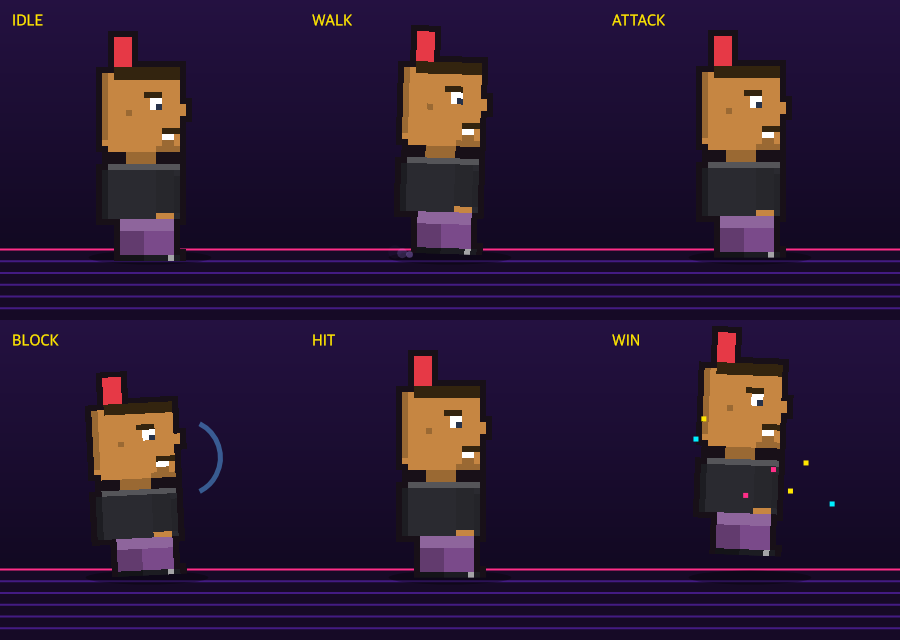
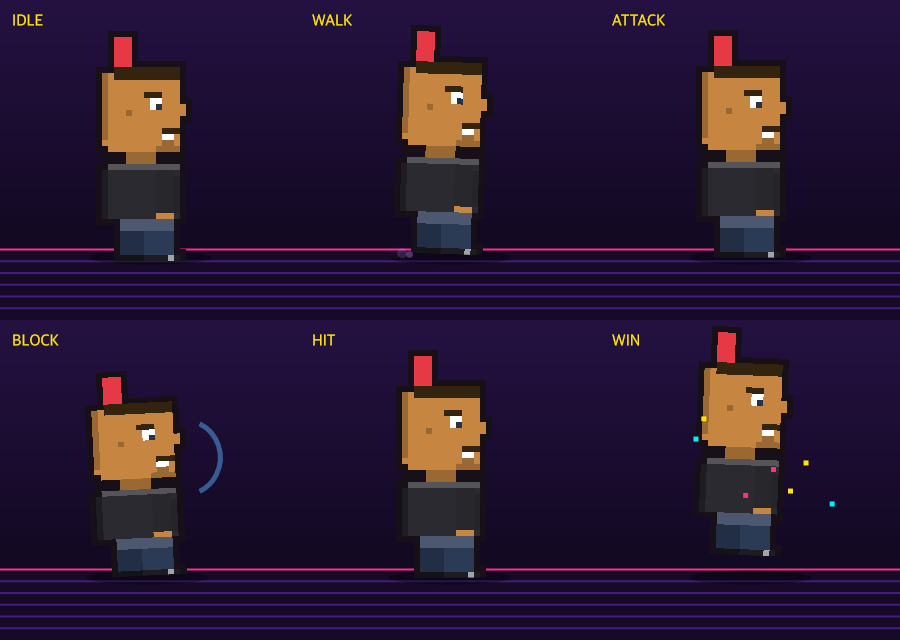
feat(generator): configurable trouser colour + barefoot toes
Add trousersColor (any hex), decoupled from trouser style, with a TROUSERS swatch row in the editor. Fix barefoot to show skin-coloured toes in front and profile views.

diff --git a/packages/generator/src/parts.ts b/packages/generator/src/parts.ts
@@ -1,7 +1,7 @@
 import type { Ctx2D } from "./types.js";
 import type { PartId } from "./palettes.js";
 import { shade } from "./color.js";
-import { HAIR, PANTS } from "./palettes.js";
+import { HAIR } from "./palettes.js";
 
 /** Part ids the profile view needs, taken straight from the config. */
 export interface SideParts {
@@ -47,8 +47,8 @@ export function clr(g: Ctx2D, x: number, y: number): void {
    Every part switches on its string id, so options can be added or reordered
    without renumbering anything. */
 
-export function drawTrousers(g: Ctx2D, id: PartId<"trousers">, skin: string): void {
-  const PC = PANTS[id];
+export function drawTrousers(g: Ctx2D, id: PartId<"trousers">, color: string, skin: string): void {
+  const PC = color;
   const d = shade(PC, -0.28);
   const hi = shade(PC, 0.18);
   // hips
@@ -522,7 +522,15 @@ export function drawGlasses(g: Ctx2D, id: GlassesId): void {
 /* ---------- shoes (drawn over the bottom of the legs) ---------- */
 
 export function drawShoes(g: Ctx2D, id: PartId<"shoes">, skin: string): void {
-  if (id === "none") return;
+  if (id === "none") {
+    // barefoot — skin toes peeking out at the bottom of each leg
+    const d = shade(skin, -0.25);
+    P(g, 9, 39, 5, 1, skin);
+    P(g, 18, 39, 5, 1, skin);
+    px(g, 12, 39, d);
+    px(g, 21, 39, d);
+    return;
+  }
   shoeFront(g, 9, id, -1, skin); // left foot (leg x9–13)
   shoeFront(g, 18, id, 1, skin); // right foot (leg x18–22)
 }
@@ -580,8 +588,13 @@ const SIDE_SHOE_COLOR: Record<PartId<"shoes">, string> = {
 };
 
 /** Shoes for the profile view (figure faces right; toe points +x). */
-export function drawShoesSide(g: Ctx2D, id: PartId<"shoes">): void {
-  if (id === "none") return;
+export function drawShoesSide(g: Ctx2D, id: PartId<"shoes">, skin: string): void {
+  if (id === "none") {
+    // barefoot — skin feet
+    P(g, 11, 39, 5, 1, shade(skin, -0.2)); // back foot
+    P(g, 15, 39, 6, 1, skin); // front foot + toes
+    return;
+  }
   const c = SIDE_SHOE_COLOR[id];
   const c2 = shade(c, -0.28);
   if (id === "clown-shoes") {
@@ -605,15 +618,15 @@ export function drawShoesSide(g: Ctx2D, id: PartId<"shoes">): void {
 
 /* ---------- side / profile view (faces right; mirrored for left) ---------- */
 
-export function drawSide(g: Ctx2D, s: SideParts, skin: string, cloth: string, gx: "m" | "w" | "n"): void {
+export function drawSide(g: Ctx2D, s: SideParts, skin: string, cloth: string, pants: string, gx: "m" | "w" | "n"): void {
   const sd = shade(skin, -0.22);
   const h = HAIR;
   // legs
-  const PC = PANTS[s.trousers];
+  const PC = pants;
   P(g, 11, 33, 5, 7, shade(PC, -0.2)); // back leg
   P(g, 15, 33, 5, 7, PC); // front leg
   P(g, 11, 33, 9, 2, shade(PC, 0.15)); // hip/belt
-  drawShoesSide(g, s.shoes);
+  drawShoesSide(g, s.shoes, skin);
   // torso
   const suit = s.top === "suit";
   const tcol =

diff --git a/packages/generator/src/palettes.ts b/packages/generator/src/palettes.ts
@@ -58,17 +58,8 @@ export const CLOTH = ["#e63946", "#2a9d8f", "#3a86ff", "#f4a261", "#9b5de5", "#0
 /** Selectable background colours (hex). */
 export const BG = ["#ff5d8f", "#3a86ff", "#06d6a0", "#ffd166", "#8338ec", "#fb5607", "#118ab2", "#2b2d42"] as const;
 
-/** Trouser colours, keyed by `trousers` part id (position-independent). */
-export const PANTS: Record<PartId<"trousers">, string> = {
-  "suit-trousers": "#2b3a55",
-  jeans: "#3a6ea5",
-  cargo: "#5a6b4a",
-  shorts: "#c9a14a",
-  "bell-bottoms": "#7a4a8a",
-  sweatpants: "#9aa0a6",
-  lederhosen: "#6b4a2a",
-  plaid: "#b5563a",
-};
+/** Selectable trouser colours (hex). The editor offers these; configs may use any hex. */
+export const PANTS = ["#2b3a55", "#3a6ea5", "#5a6b4a", "#c9a14a", "#7a4a8a", "#9aa0a6", "#6b4a2a", "#b5563a"] as const;
 
 /** The single hair colour used by all hairstyles and beards. */
 export const HAIR = "#33240f";

diff --git a/packages/react-editor/src/AvatarEditor.tsx b/packages/react-editor/src/AvatarEditor.tsx
@@ -8,6 +8,7 @@ import {
   SKIN,
   CLOTH,
   BG,
+  PANTS,
   DEFAULT_CONFIG,
   normalizeConfig,
   encodeConfig,
@@ -530,6 +531,15 @@ export function AvatarEditor(props: AvatarEditorProps): React.ReactElement {
               <div style={{ display: "flex", gap: "6px", flexWrap: "wrap" }}>
                 {CLOTH.map((c) => (
                   <button key={c} onClick={() => patch({ clothing: c })} style={swatchBtn(c, config.clothing === c)} />
+                ))}
+              </div>
+            </div>
+
+            <div style={swatchRowStyle}>
+              <span style={swatchLabelStyle}>TROUSERS</span>
+              <div style={{ display: "flex", gap: "6px", flexWrap: "wrap" }}>
+                {PANTS.map((c) => (
+                  <button key={c} onClick={() => patch({ trousersColor: c })} style={swatchBtn(c, config.trousersColor === c)} />
                 ))}
               </div>
             </div>

diff --git a/packages/generator/src/config.ts b/packages/generator/src/config.ts
@@ -1,5 +1,5 @@
 import type { AvatarConfig, View } from "./types.js";
-import { PARTS, SKIN, CLOTH, BG, type PartId, type PartKey } from "./palettes.js";
+import { PARTS, SKIN, CLOTH, BG, PANTS, type PartId, type PartKey } from "./palettes.js";
 import { createRng, type Rng } from "./rng.js";
 
 /** The avatar shown before the user changes anything — a plain everyman. */
@@ -16,6 +16,7 @@ export const DEFAULT_CONFIG: Readonly<AvatarConfig> = Object.freeze({
   shoes: "dress-shoes",
   skin: SKIN[2], // #e0ac69
   clothing: CLOTH[2], // #3a86ff
+  trousersColor: PANTS[0], // #2b3a55
   background: BG[1], // #3a86ff
   view: "front",
 });
@@ -52,6 +53,7 @@ export function normalizeConfig(input: Partial<AvatarConfig> = {}): AvatarConfig
     shoes: normPart("shoes", input.shoes),
     skin: normColor(input.skin, DEFAULT_CONFIG.skin),
     clothing: normColor(input.clothing, DEFAULT_CONFIG.clothing),
+    trousersColor: normColor(input.trousersColor, DEFAULT_CONFIG.trousersColor),
     background: normColor(input.background, DEFAULT_CONFIG.background),
     view: typeof input.view === "string" && VIEWS.includes(input.view) ? input.view : DEFAULT_CONFIG.view,
   };
@@ -118,6 +120,7 @@ function buildConfig(rng: Rng): AvatarConfig {
     accessory: pickId(rng, "accessory"),
     // Appended last so existing seeds keep all their other parts unchanged.
     shoes: pickId(rng, "shoes"),
+    trousersColor: pickColor(rng, PANTS),
     view: "front",
   };
 }

diff --git a/packages/generator/src/types.ts b/packages/generator/src/types.ts
@@ -33,8 +33,10 @@ export interface AvatarConfig {
   shoes: PartId<"shoes">;
   /** Skin tone, any `#rrggbb` hex. */
   skin: string;
-  /** Clothing colour, any `#rrggbb` hex. */
+  /** Top / clothing colour, any `#rrggbb` hex. */
   clothing: string;
+  /** Trouser colour, any `#rrggbb` hex. */
+  trousersColor: string;
   /** Background colour, any `#rrggbb` hex. */
   background: string;
   /** Facing direction. */

diff --git a/packages/generator/src/compose.ts b/packages/generator/src/compose.ts
@@ -58,10 +58,11 @@ export function composeSprite(config: AvatarConfig, view: View = config.view): S
       },
       skin,
       clothing,
+      config.trousersColor,
       gx,
     );
   } else {
-    drawTrousers(g, config.trousers, skin);
+    drawTrousers(g, config.trousers, config.trousersColor, skin);
     drawShoes(g, config.shoes, skin);
     drawTop(g, config.top, clothing, skin);
     if (gx === "w") {

diff --git a/packages/generator/src/config.test.ts b/packages/generator/src/config.test.ts
@@ -33,7 +33,7 @@ describe("config shape", () => {
     expect(DEFAULT_CONFIG.view).toBe("front");
     // English keys
     expect(Object.keys(DEFAULT_CONFIG).sort()).toEqual(
-      ["accessory", "background", "build", "clothing", "ears", "hair", "hat", "mouth", "nose", "shoes", "skin", "top", "trousers", "view"],
+      ["accessory", "background", "build", "clothing", "ears", "hair", "hat", "mouth", "nose", "shoes", "skin", "top", "trousers", "trousersColor", "view"],
     );
   });
 });

diff --git a/.changeset/trouser-color.md b/.changeset/trouser-color.md
@@ -1,0 +1,8 @@
+---
+"@retro-antlitz-kartei/generator": minor
+"@retro-antlitz-kartei/react-editor": patch
+---
+
+Add a configurable `trousersColor` (any hex), decoupled from the trouser style,
+with a `TROUSERS` swatch row in the editor. Also fix the `barefoot` shoes option
+to actually show skin-coloured toes in both front and profile views.

diff --git a/packages/generator/README.md b/packages/generator/README.md
@@ -68,9 +68,10 @@ interface AvatarConfig {
   build: "small" | "medium" | "large";
   accessory: "none" | "nerd-glasses" | "full-beard" | …;
   shoes: "sneakers" | "boots" | "dress-shoes" | "clown-shoes" | …;
-  skin: string;       // hex, e.g. "#e0ac69"
-  clothing: string;   // hex
-  background: string; // hex
+  skin: string;          // hex, e.g. "#e0ac69"
+  clothing: string;      // hex — top colour
+  trousersColor: string; // hex — trouser colour
+  background: string;    // hex
   view: "front" | "left" | "right";
 }
 ```